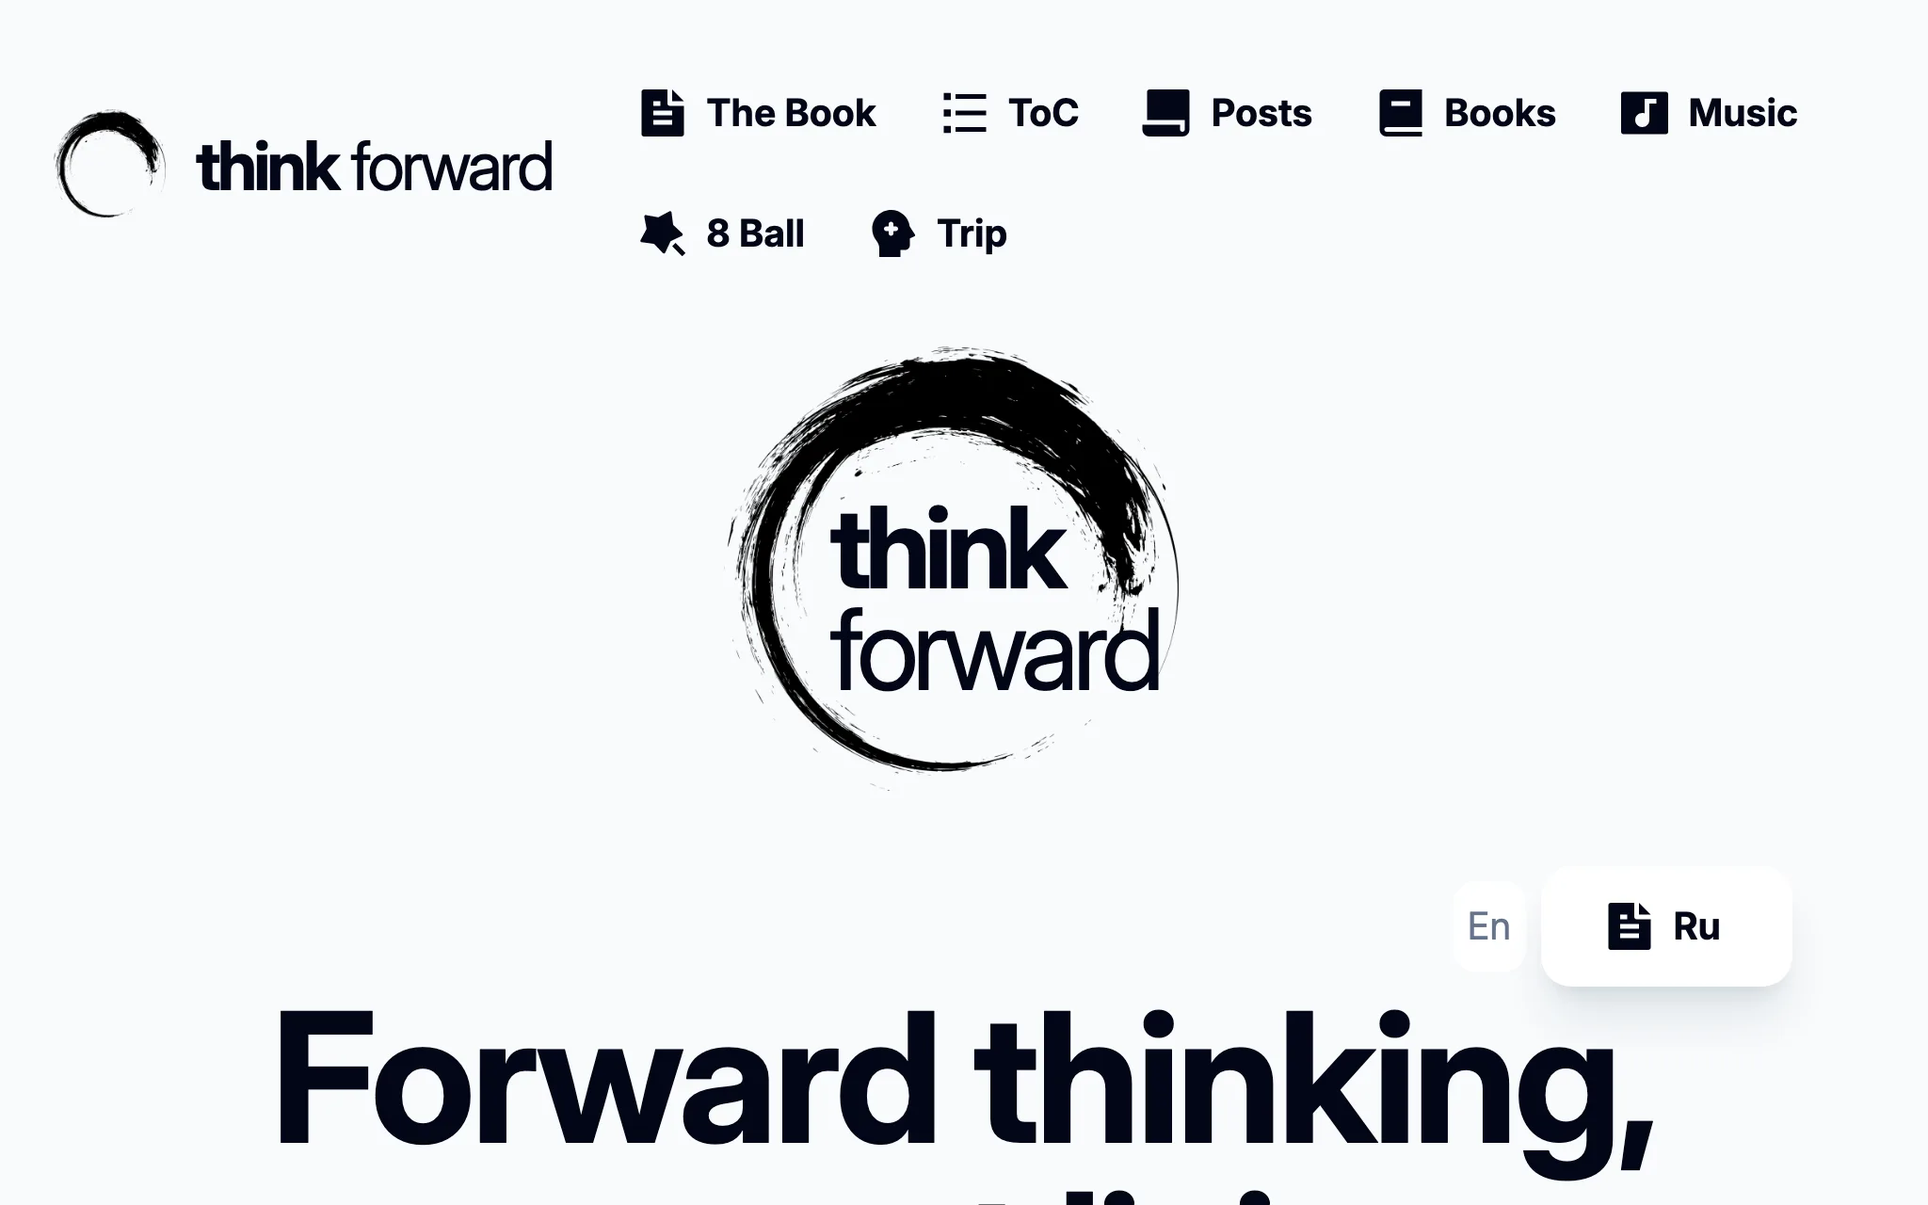
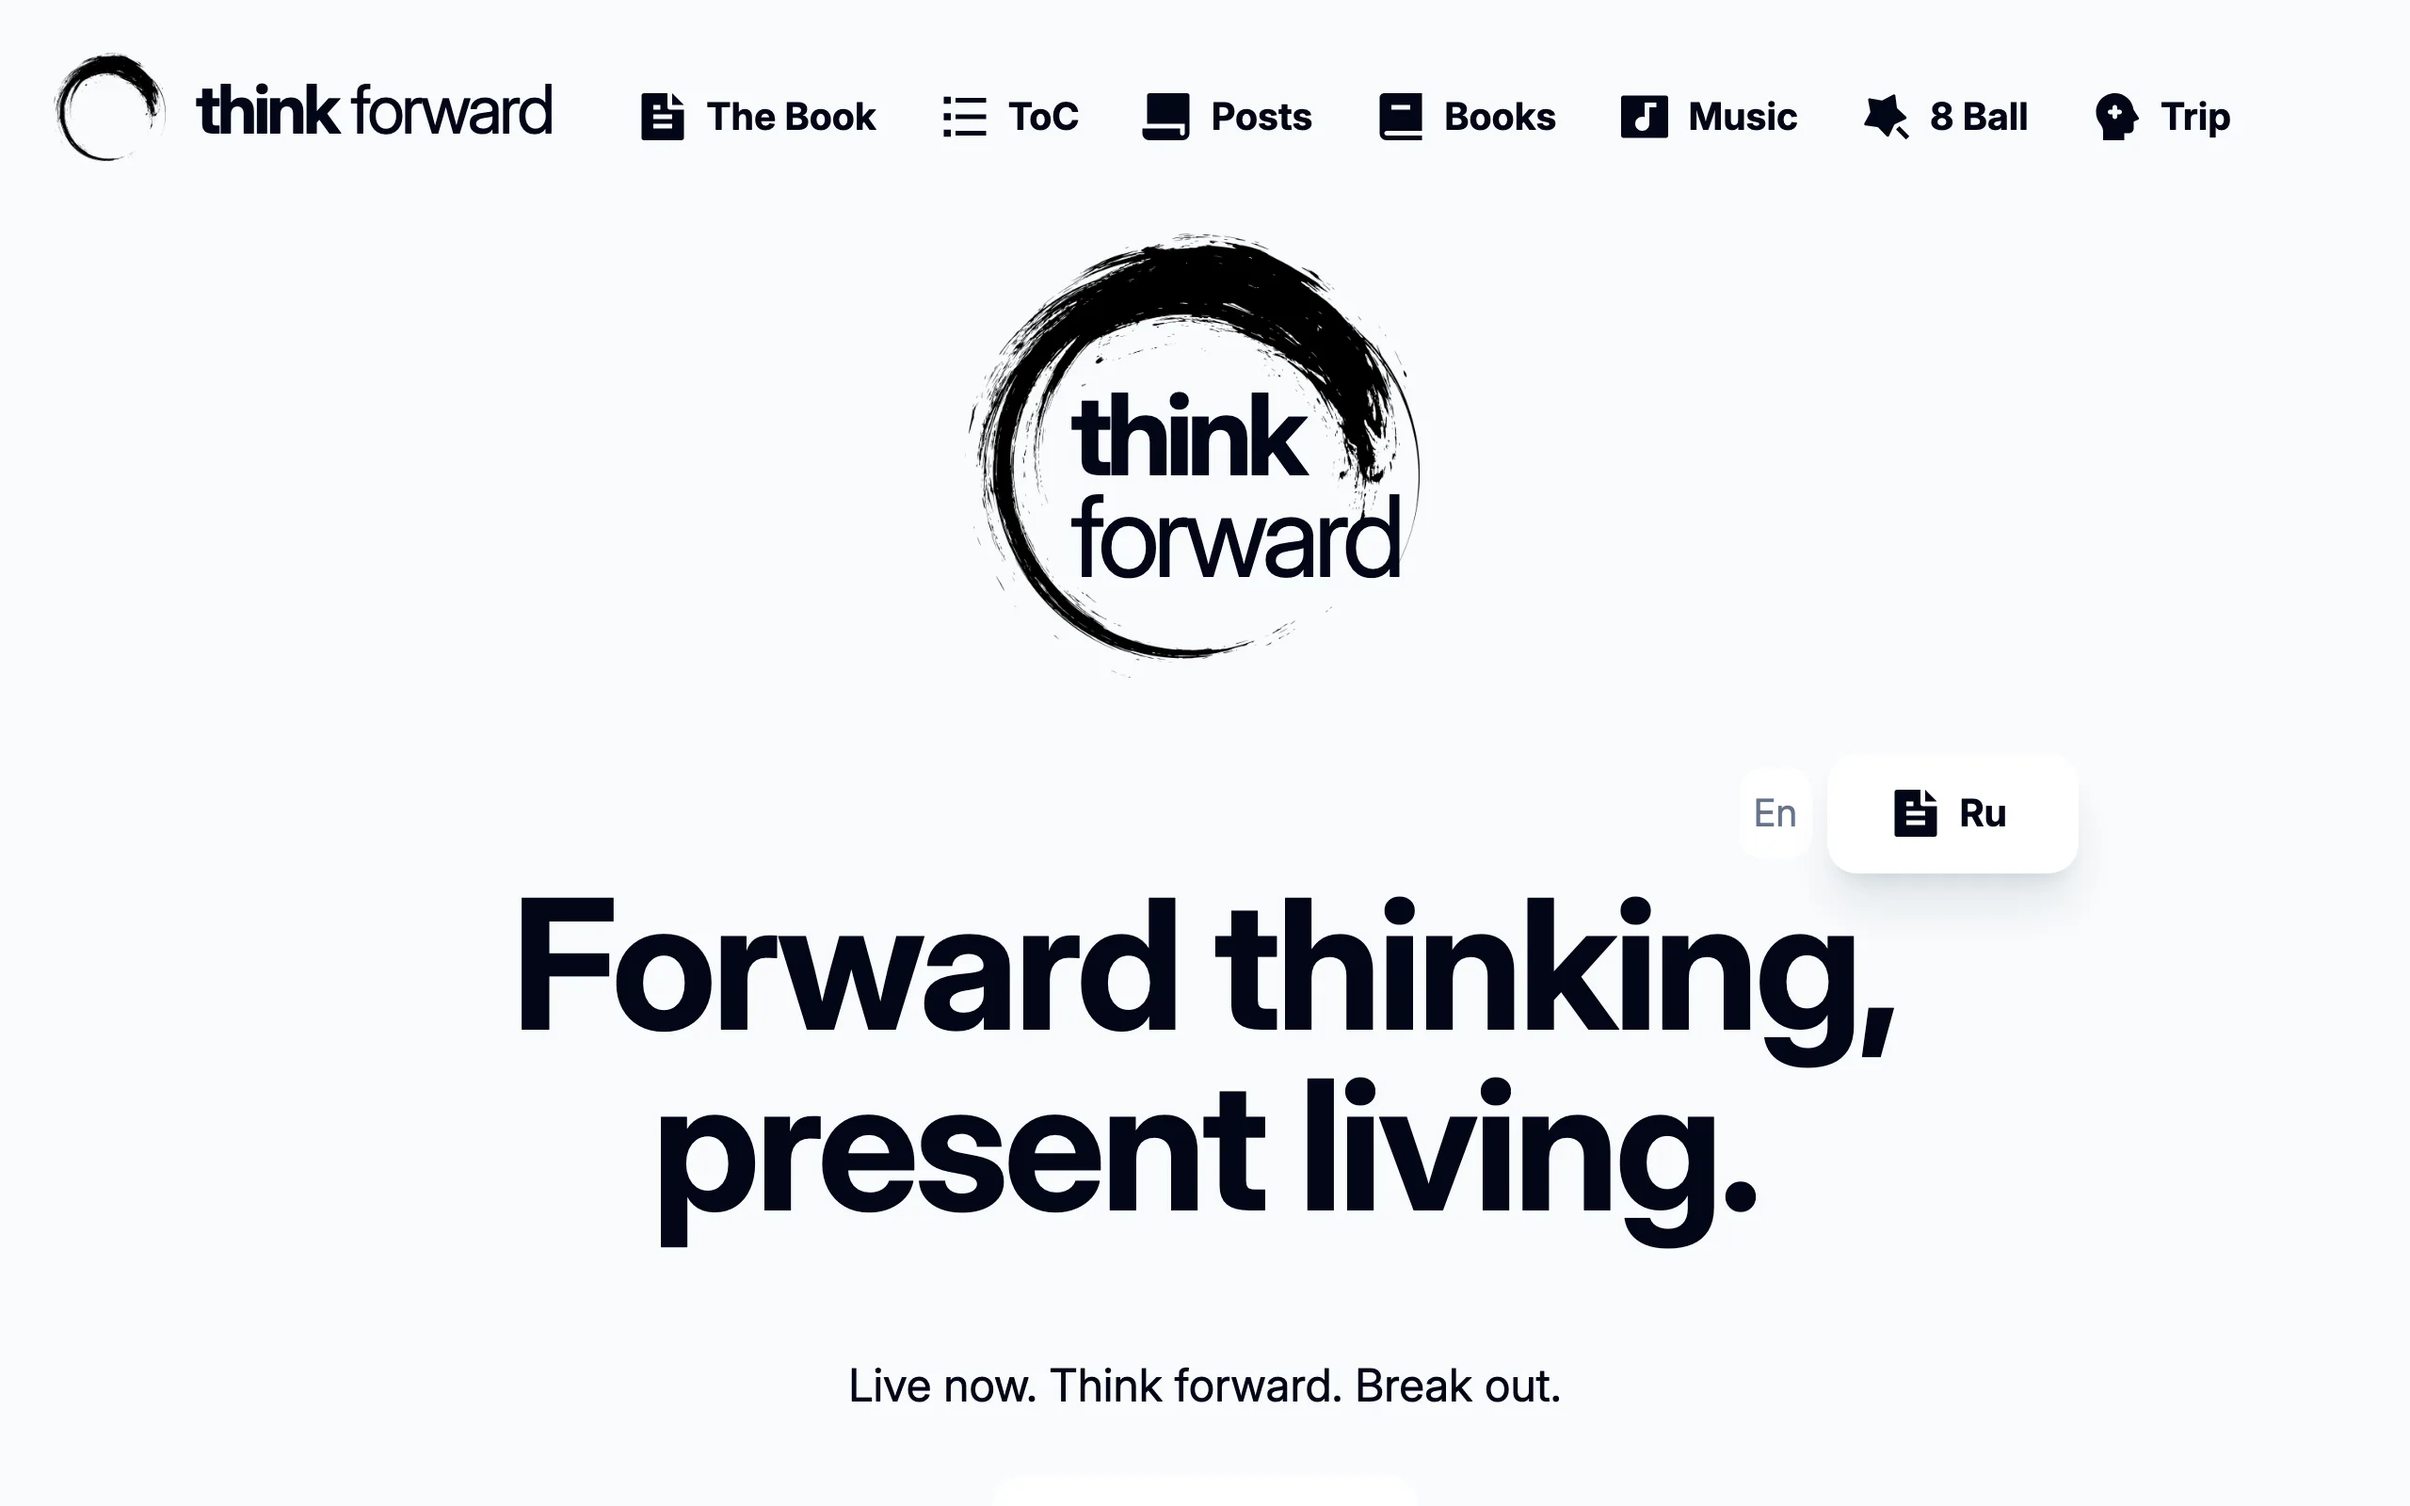
think→forward screenshot at 1280x800@2x: nav on one line, headline whole

diff --git a/AGENTS.md b/AGENTS.md
@@ -48,6 +48,8 @@ Do not force-push either branch. `src/CNAME` must remain `firedev.com`.
 Card and project-page media are 16:10 with `object-cover`. Shoot live sites at
 `--window-size=1024,640 --force-device-scale-factor=2` (→ 2048×1280, then `cwebp -q 82`):
 a narrower window fills the frame with content instead of whitespace (Nick, 23.09.2026).
+Check the shot: if the site's nav wraps or the headline is cut, go up to 1280×800 —
+thinkforward.academy needs 1280.
 Light mode: `--blink-settings=preferredColorScheme=1`. zsh does not word-split
 `set -- $p` in a loop — use `set -- ${=p}`, or every shot silently goes to the wrong
 path (23.09.2026: that, not Brave, was why window sizes looked ignored). Brave headless
